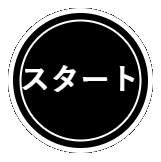
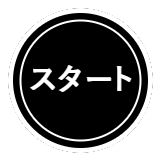
Button panel docking

diff --git a/src/aeromaze/spaceship.js b/src/aeromaze/spaceship.js
@@ -20,7 +20,6 @@ class Spaceship extends Group
 		this.ring = this.generateRing( );
 
 		this.flightCommands = '';
-		this.updateStartIcon = true;
 		
 		this.model = model( 'models/craft_speederA.glb' );
 			its.size = Spaceship.SCALE;
@@ -47,58 +46,87 @@ class Spaceship extends Group
 	// generate commands ring
 	generateRing( )
 	{
-		// function setPos( label, angle, distScale = 1 )
-		// {
-			// var dist = 120*distScale,
-				// dx = Math.round( dist*Math.cos(radians(angle)) ),
-				// dy = Math.round( dist*Math.sin(radians(angle)) );
-			// var elem = element( label );
-			
-			// console.log(elem,elem.clientWidth,elem.clientHeight)
-			
-			// elem.style.left = (-80/2+dx)+'px';
-			// elem.style.top = (-80/2-dy)+'px';
-		// }
-
-		// setPos( 'lt', 180 );
-		// setPos( 'rt', 0 );
-		// setPos( 'up', 90 );
-		// setPos( 'dn', 270 );
-		// setPos( 'ac', 135 );
-		// setPos( 'cw', 45 );
-		// setPos( 'go1', -45 );
-		// setPos( 'go2', -135 );
-
 		var that = this;
 		
-		function setPos( label, command, dx, dy )
+		function setEventHandler( label, command )
 		{
-			var elem = element( label ),
-				imgElem = elem.getElementsByTagName( 'img' )[0];
-			
-			elem.style.left = (-80/2+dx)+'px';
-			elem.style.top = (-80/2-dy)+'px';
-
-			elem.command = command;
-			elem.addEventListener( 'click', that.command );
+			element( label ).command = command;
+			element( label ).addEventListener( 'click', that.command );
 		}
 
-		setPos( 'button_up', 'U',    	   0,   80 );
-		setPos( 'button_down', 'D',  	   0,  -80 );
+		setEventHandler( 'button_up', 'U' );
+		setEventHandler( 'button_down', 'D' );
 
-		setPos( 'button_left', 'L',		 -70,   40 );
-		setPos( 'button_right', 'R',	  70,   40 );
+		setEventHandler( 'button_left', 'L' );
+		setEventHandler( 'button_right', 'R' );
 		
-		setPos( 'button_roll_left', 'A', -70,  -40 );
-		setPos( 'button_roll_right', 'C', 70,  -40 );
+		setEventHandler( 'button_roll_left', 'A' );
+		setEventHandler( 'button_roll_right', 'C' );
 		
-		setPos( 'button_forward', 'F',	   0,    0 );
-		setPos( 'button_start', '!',	  80,   80 );
+		setEventHandler( 'button_forward', 'F' );
+		setEventHandler( 'button_start', '!' );
 
 		return element( 'ring' );
 	} // Spaceship.generateRing
 	
 	
+	
+	// initialize buttons - visibility and position
+	initButtons( commands )
+	{
+		const POS = {
+			U: [  0, 80],
+			D: [  0,-80],
+			L: [-70, 40],
+			R: [ 70, 40],
+			A: [-70,-40],
+			C: [ 70,-40],
+			F: [  0,  0]
+		};
+
+		var lowestCommand = 'U';
+		
+		function setPos( label, command )
+		{
+			var style = element( label ).style;
+			
+			// find a place for the start button
+			if( commands.indexOf(command) > -1 )
+			{
+				style.left = (-80/2+POS[command][0])+'px';
+				style.top = (-80/2-POS[command][1])+'px';
+				style.display = 'block';
+			}
+			else
+			if( command == '!' )
+			{
+				style.left = (-80/2+POS[lowestCommand][0])+'px';
+				style.top = (-80/2-POS[lowestCommand][1])+'px';
+				style.display = 'block';
+			}
+			else
+			{
+				style.display = 'none';
+				if( POS[command][1] <= POS[lowestCommand][1] )
+					lowestCommand = command;
+			}
+		}
+
+		setPos( 'button_up', 'U' );
+		setPos( 'button_down', 'D' );
+
+		setPos( 'button_left', 'L' );
+		setPos( 'button_right', 'R' );
+		
+		setPos( 'button_roll_left', 'A' );
+		setPos( 'button_roll_right', 'C' );
+		
+		setPos( 'button_forward', 'F' );
+		setPos( 'button_start', '!' );
+
+		element( 'counter_start' ).innerHTML = playground.attempts;
+		element( 'counter_start' ).style.display = playground.attempts>1 ? 'block' : 'none';
+	}
 	
 	// generate a tween for rotation around axis
 	rotateTween( method, sign )
@@ -157,11 +185,14 @@ class Spaceship extends Group
 	fly( )
 	{
 		// hide the ring of buttons
-		this.ring.style.display = 'none';
+		//this.ring.style.display = 'none';
 
 		// reduce the number of left starts
 		playground.attempts--;
-					
+
+		if( playground.attempts > 1 )
+			element( 'counter_start' ).style.display = 'block';
+		else
 		if( playground.attempts == 1 )
 			element( 'counter_start' ).style.display = 'none';
 		else
@@ -297,24 +328,7 @@ class Spaceship extends Group
 	onClick( )
 	{
 		// if game is not started, click on any plate will start it
-		if( playground.gameStarted )
-		{	
-	//console.log(this.ring.style.display);
-			// toggle the ring
-			if( this.ring.style.display=='block' )
-				this.ring.style.display = 'none';
-			else
-			{
-				if( this.updateStartIcon )
-				{
-					element( 'icon_start' ).src = `images/start_${playground.getLanguage()}.png`;
-					this.updateStartIcon = false;
-				}
-								
-				this.ring.style.display = 'block';
-			}
-		}
-		else
+		if( !playground.gameStarted )
 			playground.newGame( );
 	} // Spaceship.onClick
 	
@@ -323,17 +337,7 @@ class Spaceship extends Group
 	// moves the spaceship and/or its ring of buttons
 	update( t, dT )
 	{
-		if( playground.gameStarted )
-		{
-			if( this.ring.style.display=='block' )
-			{
-				var pos = this.screenPosition( );
-
-				this.ring.style.left = (pos[0]-this.ring.clientWidth/2)+'px';
-				this.ring.style.top = (pos[1]-this.ring.clientHeight/2)+'px';
-			}
-		}
-		else
+		if( !playground.gameStarted )
 		{
 			// f(x) in [-180,180)
 			function f(x) { x %= 360; return x>=180 ? x-360 : x; }

diff --git a/src/aeromaze/aeromaze.html b/src/aeromaze/aeromaze.html
@@ -38,6 +38,24 @@
 			background: rgba( 255, 200, 100, 0.5 );
 			cursor: pointer;
 		}
+		.move {
+			width: 50px;
+			height: 50px;
+			background: transparent;
+			border: none;
+			font-size: 30px;
+			color: black;
+			text-shadow:
+				1px 0px 1px white,
+			    -1px 0px 1px white,
+				0px 1px 1px white,
+				0px -1px 1px white;
+		}
+		.move:hover {
+			background: transparent;
+			cursor: pointer;
+		}
+		
 		.command img {
 			width: 100%;
 			height: 100%;
@@ -55,6 +73,9 @@
 		}
 		.command:active {
 			background: rgba( 255, 200, 100, 1 );
+		}
+		.move:active {
+			background: transparent;
 		}
 	</style>
 	
@@ -76,7 +97,7 @@
 		<div class="hud corner bottom left"></div>
 		<div class="hud corner bottom right"></div>
 		
-		<div id="ring" class="ring">
+		<div id="ring" class="ring" style="top:50%; left:50%;">
 			<div id="button_right" class="command"><img src="images/right.png" draggable="false"></div>
 			<div id="button_left" class="command"><img src="images/left.png" draggable="false"></div>
 			<div id="button_up" class="command"><img src="images/up.png" draggable="false"></div>
@@ -86,8 +107,20 @@
 			<div id="button_roll_left" class="command"><img src="images/rollccw.png" draggable="false"></div>
 			<div id="button_start" class="command">
 				<img src="images/start_en.png" draggable="false" id="icon_start">
-				<div class="counter" id="counter_start">3</div>
+				<div class="counter" id="counter_start">2</div>
 			</div>
+
+
+			<div class="move command" style="left:-165px; top:-30px;" onclick="panLeft()"><img src="images/pan_left.png" draggable="false"></div>
+			<div class="move command" style="left:107px; top:-30px;" onclick="panRight()"><img src="images/pan_right.png" draggable="false"></div>
+			<div class="move command" style="left:-29px; top:-178px;" onclick="panTop()"><img src="images/pan_top.png" draggable="false"></div>
+			<div class="move command" style="left:-29px; top:120px;" onclick="panBottom()"><img src="images/pan_bottom.png" draggable="false"></div>
+<!--
+			<div class="move command" style="left:-165px; top:-30px;" onclick="panLeft()">⭰</div>
+			<div class="move command" style="left:107px; top:-30px;" onclick="panRight()">⭲</div>
+			<div class="move command" style="left:-29px; top:-178px;" onclick="panTop()">⭱</div>
+			<div class="move command" style="left:-29px; top:120px;" onclick="panBottom()">⭳</div>
+	-->		
 		</div>
 		
 		<div class="hud top right" style="border: none;">
@@ -120,6 +153,43 @@
 
 		window.addEventListener( 'resize', playground.resize );
 				
+			
+		function panLeft( )
+		{
+			element( 'ring' ).style.left = '110px';
+			element( 'ring' ).style.right = '';
+			element( 'ring' ).style.top = '50%';
+			element( 'ring' ).style.bottom = '';
+		}
+		
+		
+		function panRight( )
+		{
+			element( 'ring' ).style.left = '';
+			element( 'ring' ).style.right = '110px';
+			element( 'ring' ).style.top = '50%';
+			element( 'ring' ).style.bottom = '';
+		}
+		
+		
+		function panTop( )
+		{
+			element( 'ring' ).style.left = '50%';
+			element( 'ring' ).style.right = '';
+			element( 'ring' ).style.top = '120px';
+			element( 'ring' ).style.bottom = '';
+		}
+		
+		
+		function panBottom( )
+		{
+			element( 'ring' ).style.left = '50%';
+			element( 'ring' ).style.right = '';
+			element( 'ring' ).style.top = '';
+			element( 'ring' ).style.bottom = '120px';
+		}
+		
+		
 		function onPointerMove( event )
 		{		
 			playground.pointerMovement += Math.abs( event.movementX ) + Math.abs( event.movementY );
@@ -149,13 +219,8 @@
 				playground.spaceship.onClick( );
 			}
 		}
-		<!-- function onPointerMove( event ) -->
-		<!-- { -->
-			<!-- if( findObject( event ) ) -->
-				<!-- event.target.style.cursor = 'pointer'; -->
-			<!-- else -->
-				<!-- event.target.style.cursor = 'default'; -->
-		<!-- } -->
+		
+		panTop();
 		
 	</script>
 	

diff --git a/src/aeromaze/playground.js b/src/aeromaze/playground.js
@@ -40,6 +40,8 @@ class Playground extends ScormPlayground
 		this.maze.add( this.platformA, this.platformB, this.spaceship );
 		this.maze.threejs.castShadow = true;
 
+		element( 'icon_start' ).src = `images/start_${this.getLanguage()}.png`;
+
 		orb.addEventListener( 'start', () => Playground.POINTER_USED=true  );
 		orb.addEventListener( 'end', () => Playground.POINTER_USED=false );
 
@@ -105,10 +107,11 @@ class Playground extends ScormPlayground
 
 		this.attempts += Playground.NEW_ATTEMPTS;
 		
+
 		// config
-		var planetSize = Math.round(THREE.MathUtils.mapLinear( this.difficulty**2, 10**2, 100**2, 0, this.planets.length-1 )),
+		var planetSize = Math.round(THREE.MathUtils.mapLinear( this.difficulty, 10, 100, 0, this.planets.length-1 )),
 			midPointsCount = Math.round(THREE.MathUtils.mapLinear( this.difficulty, 10**1.7, 100**1.7, 0, 10 )),
-			randomRoutesCount = Math.round(THREE.MathUtils.mapLinear( this.difficulty**1.5, 10**1.5, 100**1.5, 0, 10 ));
+			randomRoutesCount = Math.round(THREE.MathUtils.mapLinear( this.difficulty**2, 10**2, 100**2, 0, 20 ));
 		
 		this.planet.visible = false;
 		this.planet = this.planets[ planetSize ];
@@ -124,12 +127,33 @@ class Playground extends ScormPlayground
 		this.platformA.randomize( this.planet, sides[0] );
 		this.platformB.randomize( this.planet, sides[1] );
 
-		element( 'button_start' ).style.display = 'block';
-		element( 'counter_start' ).innerHTML = this.attempts;
-		element( 'counter_start' ).style.display = this.attempts>1 ? 'block' : 'none';
-		
 
+		// commands
+		const COMMANDS = {
+			BASIC:	[ 'LRUDA.', 'LRUD.C' ],
+			EASY:	[ 'LR..AC', '..UDAC' ],
+			MEDIUM:	[ 'LRU.A.', 'LRU..C', 'LR.DA.', 'LR.D.C', 'L.UDA.', 'L.UD.C', '.RUDA.', '.RUD.C', 'L.U.AC', 'L..DAC', '.RU.AC', '.R.DAC' ],
+			HARD:	[ 'L.U...', 'L..D..', '.RU...', '.R.D..', 'L...A.', 'L....C', '.R..A.', '.R...C', '..U.A.', '..U..C', '...DA.', '...D.C' ],
+		};
+		var commands = [];
+
+		if( this.difficulty < 50 )
+			commands = commands.concat( COMMANDS.BASIC );
+		else
+		if( this.difficulty < 70 )
+			commands = commands.concat( COMMANDS.BASIC, COMMANDS.EASY );
+		else
+		if( this.difficulty < 90 )
+			commands = commands.concat( COMMANDS.EASY, COMMANDS.MEDIUM );
+		else
+		if( this.difficulty < 96 )
+			commands = commands.concat( COMMANDS.MEDIUM );
+		else
+			commands = commands.concat( COMMANDS.HARD );
+		
+		this.spaceship.initButtons( random(commands)+'F' );
 		this.spaceship.goToPlatformA( );
+		this.spaceship.ring.style.display = 'block';
 		
 		this.maze.regenerate( midPointsCount, randomRoutesCount );
 		
